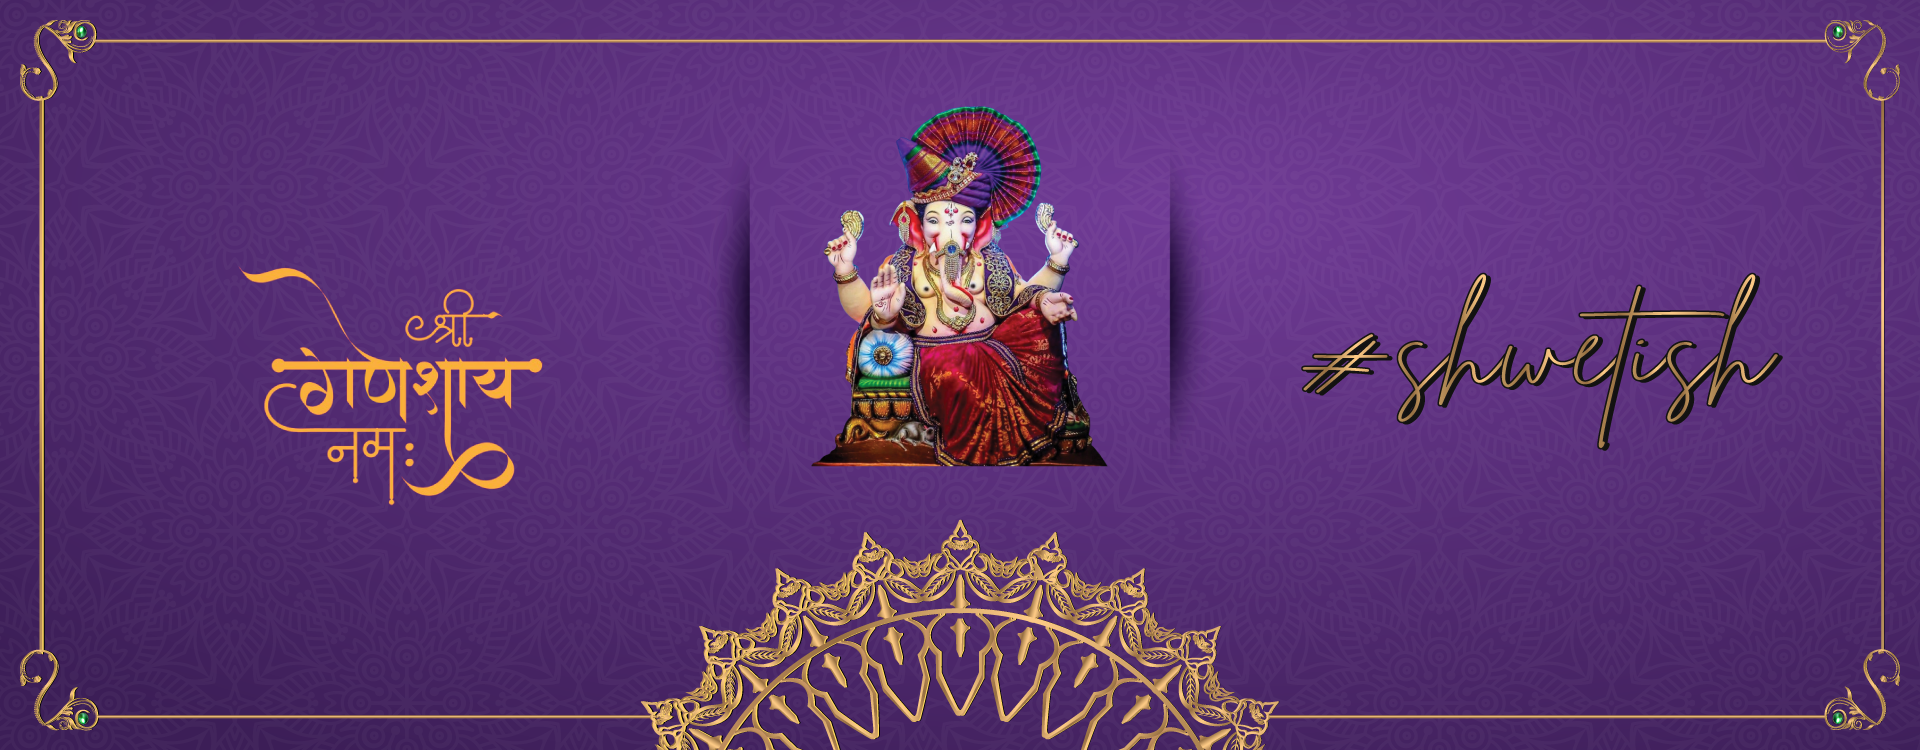
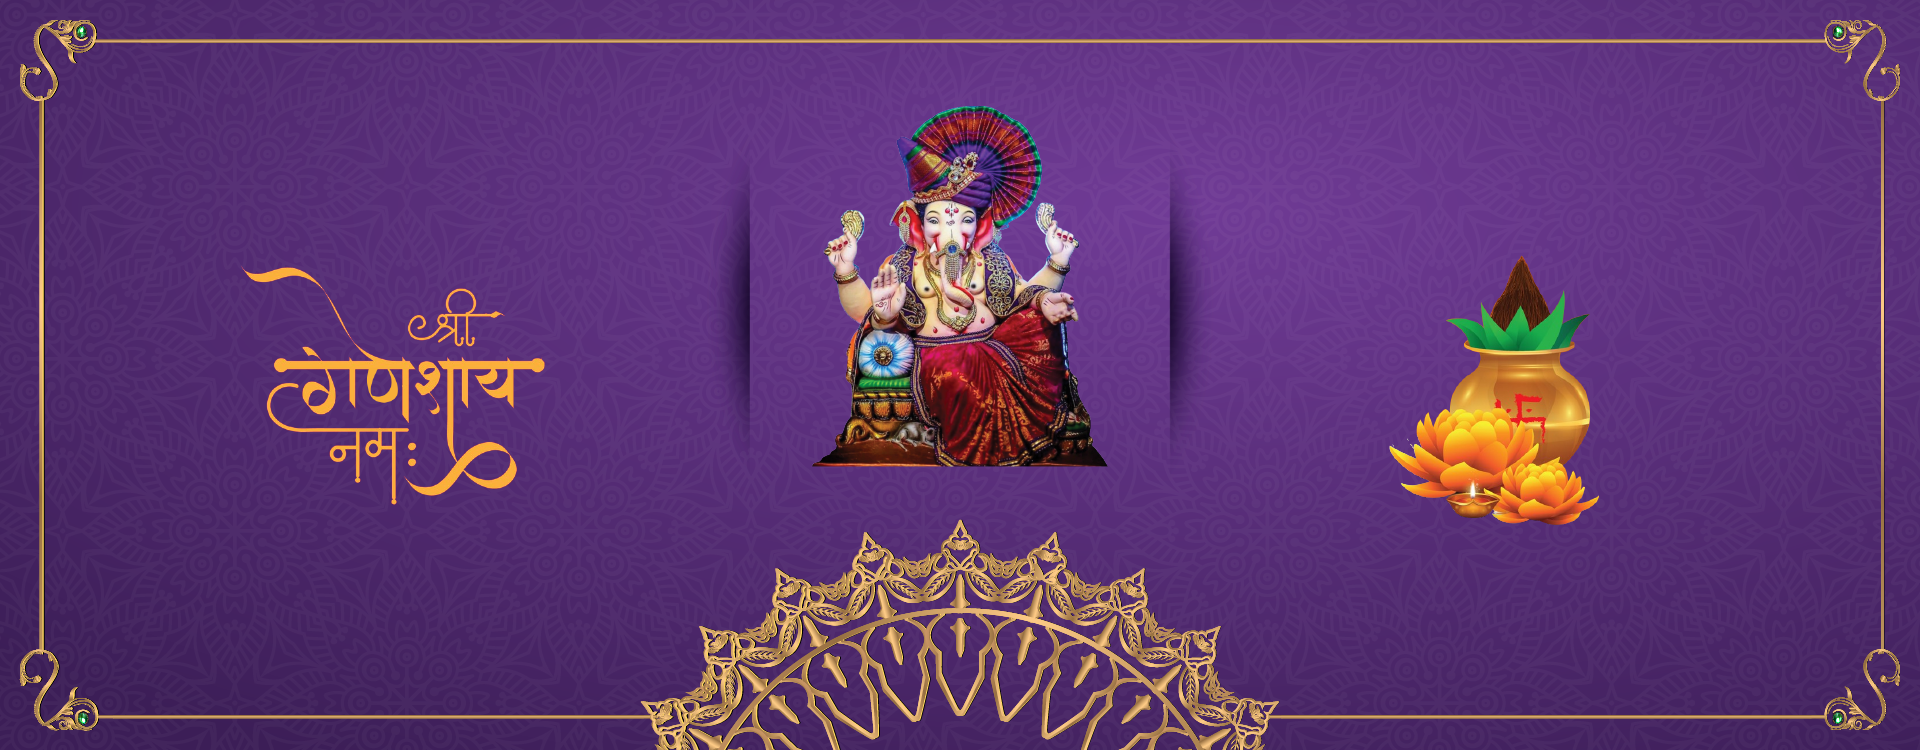
Chacha naraz hogaya

diff --git a/index.html b/index.html
@@ -121,7 +121,7 @@
                 <ol class="carousel-indicators">
                     <li data-target="#carousel-example-generic" data-slide-to="0" class="active"></li>
                     <li data-target="#carousel-example-generic" data-slide-to="1"></li>
-                    <li data-target="#carousel-example-generic" data-slide-to="2"></li>
+                    <!-- <li data-target="#carousel-example-generic" data-slide-to="2"></li> -->
                 </ol>
                 <!-- Wrapper for slides -->
                 <div class="carousel-inner" role="listbox">
@@ -148,7 +148,7 @@
                         </div>
                     </div>
                     <!-- Item 3 -->
-                    <div class="item slide3">
+                    <!-- <div class="item slide3">
                         <div class="row">
                             <div class="container">
                                 <div class="col-md-7 text-left">
@@ -157,7 +157,7 @@
                                 </div>
                             </div>
                         </div>
-                    </div>
+                    </div> -->
                 </div>
                 <!-- End Wrapper for slides-->
                 <a class="left carousel-control" href="#carousel-example-generic" role="button" data-slide="prev">

diff --git a/css/main.css b/css/main.css
@@ -19,7 +19,7 @@
 	
 }
 #first-slider .slide2 {
-  background-image: url('../img/slides/2.jpg');
+  background-image: url('../img/slides/2.png');
   background-size: cover;
   background-repeat: no-repeat;
   background-position: center;
